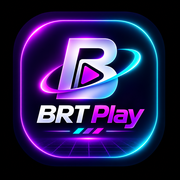
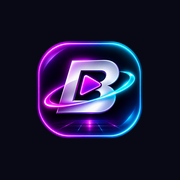
feat: renova Home e identidade visual do BRT Play

diff --git a/src/pages/Home.css b/src/pages/Home.css
@@ -13,12 +13,15 @@
 .home-brand {
   position: relative;
   display: grid;
-  grid-template-columns: minmax(0, 1fr) minmax(130px, 37%);
+  grid-template-columns: minmax(0, 1fr) minmax(0, 26%);
   align-items: center;
-  gap: clamp(12px, 3vw, 40px);
+  gap: clamp(12px, 3vw, 32px);
+  box-sizing: border-box;
+  aspect-ratio: 3 / 1;
   overflow: hidden;
   margin-bottom: clamp(20px, 3vw, 32px);
-  padding: clamp(20px, 4.5vw, 48px);
+  padding: clamp(20px, 3.8vw, 42px);
+  padding-inline-end: clamp(16px, 2.2vw, 26px);
   border: 1px solid var(--border);
   border-radius: var(--radius-panel);
   background:
@@ -27,14 +30,19 @@
   box-shadow: var(--shadow);
 }
 
-.home-brand::before {
+.home-hero-background {
   position: absolute;
   inset: 0;
-  background-image:
-    linear-gradient(#a18eee13 1px, transparent 1px),
-    linear-gradient(90deg, #a18eee13 1px, transparent 1px);
-  background-size: 28px 28px;
-  mask-image: linear-gradient(90deg, transparent 24%, #000);
+  width: 100%;
+  height: 100%;
+  object-fit: cover;
+  object-position: center;
+}
+
+.home-brand::after {
+  position: absolute;
+  inset: 0;
+  background: linear-gradient(90deg, #080914f5, #080914e8 26%, #08091438 48%, #0809141a 64%, #080914a6);
   pointer-events: none;
   content: '';
 }
@@ -42,47 +50,40 @@
 .home-brand-copy,
 .home-brand-art {
   position: relative;
-}
-
-.home-brand-copy::before {
-  display: block;
-  width: clamp(24px, 5vw, 52px);
-  height: 2px;
-  margin-bottom: clamp(10px, 2vw, 18px);
-  background: linear-gradient(90deg, var(--purple), var(--cyan));
-  box-shadow: 0 0 14px var(--glow-purple);
-  content: '';
+  z-index: 1;
 }
 
 .home-brand h1 {
   margin: 0;
-  font-size: clamp(2.1rem, 7.8vw, 5.125rem);
-  font-weight: 800;
-  letter-spacing: -0.06em;
-  line-height: 1;
 }
 
-.home-brand h1 span {
-  color: #d7c1ff;
-  text-shadow: 0 0 30px var(--glow-purple);
+.home-brand-wordmark {
+  display: block;
+  width: min(100%, clamp(320px, 42vw, 510px));
+  height: auto;
+  object-fit: contain;
 }
 
 .home-brand p {
   margin-top: clamp(8px, 1.5vw, 16px);
-  color: var(--text-muted);
+  color: #e2ddf4;
   font-size: clamp(0.95rem, 2vw, 1.35rem);
   line-height: 1.4;
 }
 
 .home-brand-art {
-  justify-self: center;
-  width: min(100%, 230px);
+  display: grid;
+  place-items: center;
+  justify-self: end;
+  width: min(100%, clamp(116px, 14vw, 174px));
+  aspect-ratio: 1;
 }
 
 .home-brand-art img {
   display: block;
-  width: 100%;
+  width: 96%;
   height: auto;
+  object-fit: contain;
 }
 
 .home-catalog {
@@ -113,91 +114,39 @@
 }
 
 .home-card-visual {
-  position: relative;
   display: grid;
   place-items: center;
-  min-height: clamp(126px, 14vw, 176px);
+  isolation: isolate;
+  padding-block: clamp(8px, 1.5vw, 16px);
   border-radius: calc(var(--radius-panel) - 1px) calc(var(--radius-panel) - 1px) 0 0;
   background:
-    radial-gradient(circle, transparent 34%, color-mix(in srgb, currentColor 28%, transparent) 34.5% 35%, transparent 35.5% 48%, color-mix(in srgb, currentColor 15%, transparent) 48.5% 49%, transparent 49.5%),
-    radial-gradient(ellipse at center, var(--home-card-glow), transparent 76%),
-    var(--surface);
-  color: var(--home-card-accent);
-}
-
-.home-card-visual::after {
-  position: absolute;
-  inset: 12px;
-  background:
-    linear-gradient(currentColor 1px, transparent 1px) top left / 14px 1px,
-    linear-gradient(90deg, currentColor 1px, transparent 1px) top left / 1px 14px,
-    linear-gradient(currentColor 1px, transparent 1px) bottom right / 14px 1px,
-    linear-gradient(90deg, currentColor 1px, transparent 1px) bottom right / 1px 14px;
-  background-repeat: no-repeat;
-  opacity: 0.48;
-  content: '';
+    radial-gradient(ellipse at center, var(--home-card-glow), transparent 75%),
+    var(--bg);
 }
 
 .home-card-visual[data-category='pokemon'] {
-  --home-card-accent: #72efff;
   --home-card-glow: var(--glow-cyan);
 }
 
 .home-card-visual[data-category='filmes'] {
-  --home-card-accent: var(--accent);
   --home-card-glow: var(--glow-purple);
 }
 
 .home-card-visual[data-category='dragonball'] {
-  --home-card-accent: #ffa2e8;
   --home-card-glow: color-mix(in srgb, var(--magenta) 13%, transparent);
 }
 
 .home-card-icon {
-  display: grid;
-  place-items: center;
-  box-sizing: border-box;
-  width: clamp(40px, 6vw, 68px);
+  display: block;
+  width: min(76%, 260px);
+  height: auto;
   aspect-ratio: 1;
-  filter: drop-shadow(0 0 12px color-mix(in srgb, currentColor 36%, transparent));
-}
-
-[data-category='pokemon'] .home-card-icon::before {
-  width: 72%;
-  height: 90%;
-  background: currentColor;
-  clip-path: polygon(59% 0, 12% 53%, 45% 53%, 32% 100%, 93% 39%, 58% 39%, 73% 0);
-  content: '';
-}
-
-[data-category='filmes'] .home-card-icon {
-  aspect-ratio: 4 / 3;
-  border: 2px solid currentColor;
-  border-radius: 8px;
-  transform: rotate(-8deg);
-}
-
-[data-category='filmes'] .home-card-icon::before {
-  width: 34%;
-  aspect-ratio: 1;
-  background: currentColor;
-  clip-path: polygon(16% 0, 100% 50%, 16% 100%);
-  content: '';
-}
-
-[data-category='dragonball'] .home-card-icon {
-  width: clamp(34px, 5vw, 57px);
-  border: 2px solid currentColor;
-  border-radius: 50%;
-  background: radial-gradient(circle at 30% 24%, color-mix(in srgb, currentColor 26%, transparent), transparent 65%);
-}
-
-[data-category='dragonball'] .home-card-icon::before {
-  width: 46%;
-  aspect-ratio: 1;
-  background: currentColor;
-  clip-path: polygon(50% 0, 62% 35%, 100% 38%, 71% 62%, 80% 100%, 50% 78%, 20% 100%, 29% 62%, 0 38%, 38% 35%);
-  content: '';
+  object-fit: contain;
+  mix-blend-mode: screen;
+  mask-image:
+    linear-gradient(90deg, transparent, #000 8% 92%, transparent),
+    linear-gradient(180deg, transparent, #000 8% 92%, transparent);
+  mask-composite: intersect;
 }
 
 .home-card-content {
@@ -238,31 +187,28 @@
 
 @media (max-width: 720px) {
   .home-brand {
-    grid-template-columns: minmax(0, 1fr) minmax(72px, 33%);
+    grid-template-columns: minmax(0, 1fr) minmax(0, 33%);
+    aspect-ratio: auto;
     padding: clamp(14px, 4.3vw, 28px);
+    padding-bottom: clamp(104px, 32vw, 190px);
+  }
+
+  .home-hero-background {
+    inset-block-start: auto;
+    height: clamp(125px, 38vw, 230px);
+    object-position: 54% center;
+  }
+
+  .home-brand::after {
+    background: linear-gradient(180deg, var(--surface) 38%, #10122500 73%);
+  }
+
+  .home-brand-art {
+    width: min(100%, 132px);
   }
 
   .home-catalog {
     grid-template-columns: minmax(0, 1fr);
-  }
-
-  .home-catalog .navigate-button {
-    grid-template-columns: clamp(73px, 23vw, 136px) minmax(0, 1fr);
-    grid-template-rows: auto;
-  }
-
-  .home-card-visual {
-    min-height: 100px;
-    border-radius: calc(var(--radius-panel) - 1px) 0 0 calc(var(--radius-panel) - 1px);
-  }
-
-  .home-card-visual::after {
-    inset: 8px;
-  }
-
-  .home-card-content {
-    border-top: 0;
-    border-left: 1px solid var(--border);
   }
 }
 

diff --git a/src/pages/Home.jsx b/src/pages/Home.jsx
@@ -5,40 +5,66 @@ const sections = [
   {
     path: '/pokemon',
     category: 'pokemon',
+    icon: '/home-pokeball-hologram.png',
     title: 'Pokémon',
     description: 'Conheça os Pokémon e descubra seus tipos.',
   },
   {
     path: '/filmes',
     category: 'filmes',
+    icon: '/home-movies-hologram.png',
     title: 'Filmes',
     description: 'Veja os favoritos e busque outros títulos.',
   },
   {
     path: '/dragonball',
     category: 'dragonball',
+    icon: '/home-dragonball-hologram.png',
     title: 'Dragon Ball',
     description: 'Explore os personagens e compare seus níveis de ki.',
   },
 ];
 
+function hideUnavailableArt(event) {
+  event.currentTarget.style.visibility = 'hidden';
+}
+
 export default function Home() {
   return (
     <main className="page home-page">
       <header className="home-brand">
+        <img
+          className="home-hero-background"
+          src="/home-hero-cyberpunk.png"
+          width="2172"
+          height="724"
+          alt=""
+          fetchPriority="high"
+          onError={hideUnavailableArt}
+        />
         <div className="home-brand-copy">
-          <h1>BRT <span>Play</span></h1>
+          <h1>
+            <img className="home-brand-wordmark" src="/brt-play-wordmark-clean.svg" width="998" height="260" alt="BRT Play" />
+          </h1>
           <p>Explore seus universos.</p>
         </div>
         <div className="home-brand-art">
-          <img src="/brt-play-logo-cyberpunk.png" width="1254" height="1254" alt="" />
+          <img src="/brt-play-symbol-transparent.png" width="1312" height="1199" alt="" />
         </div>
       </header>
       <nav className="home-catalog" aria-label="Seções do BRT Play">
-        {sections.map(({ path, category, title, description }) => (
+        {sections.map(({ path, category, icon, title, description }) => (
           <NavigateButton key={path} path={path}>
             <span className="home-card-visual" data-category={category} aria-hidden="true">
-              <span className="home-card-icon" />
+              <img
+                className="home-card-icon"
+                src={icon}
+                width="1254"
+                height="1254"
+                alt=""
+                loading="lazy"
+                onError={hideUnavailableArt}
+              />
             </span>
             <span className="home-card-content">
               <span className="home-card-title">{title}</span>

diff --git a/vite.config.js b/vite.config.js
@@ -9,7 +9,16 @@ export default defineConfig({
     VitePWA({
       registerType: 'autoUpdate',
       injectRegister: null,
-      includeAssets: ['brt-play-logo-cyberpunk.png', 'apple-touch-icon.png', 'favicon-64.png'],
+      includeAssets: [
+        'brt-play-logo-cyberpunk.png',
+        'brt-play-symbol-transparent.png',
+        'apple-touch-icon.png',
+        'favicon-64.png',
+        'home-hero-cyberpunk.png',
+        'home-pokeball-hologram.png',
+        'home-movies-hologram.png',
+        'home-dragonball-hologram.png',
+      ],
       manifest: {
         id: '/',
         name: 'BRT Play',
